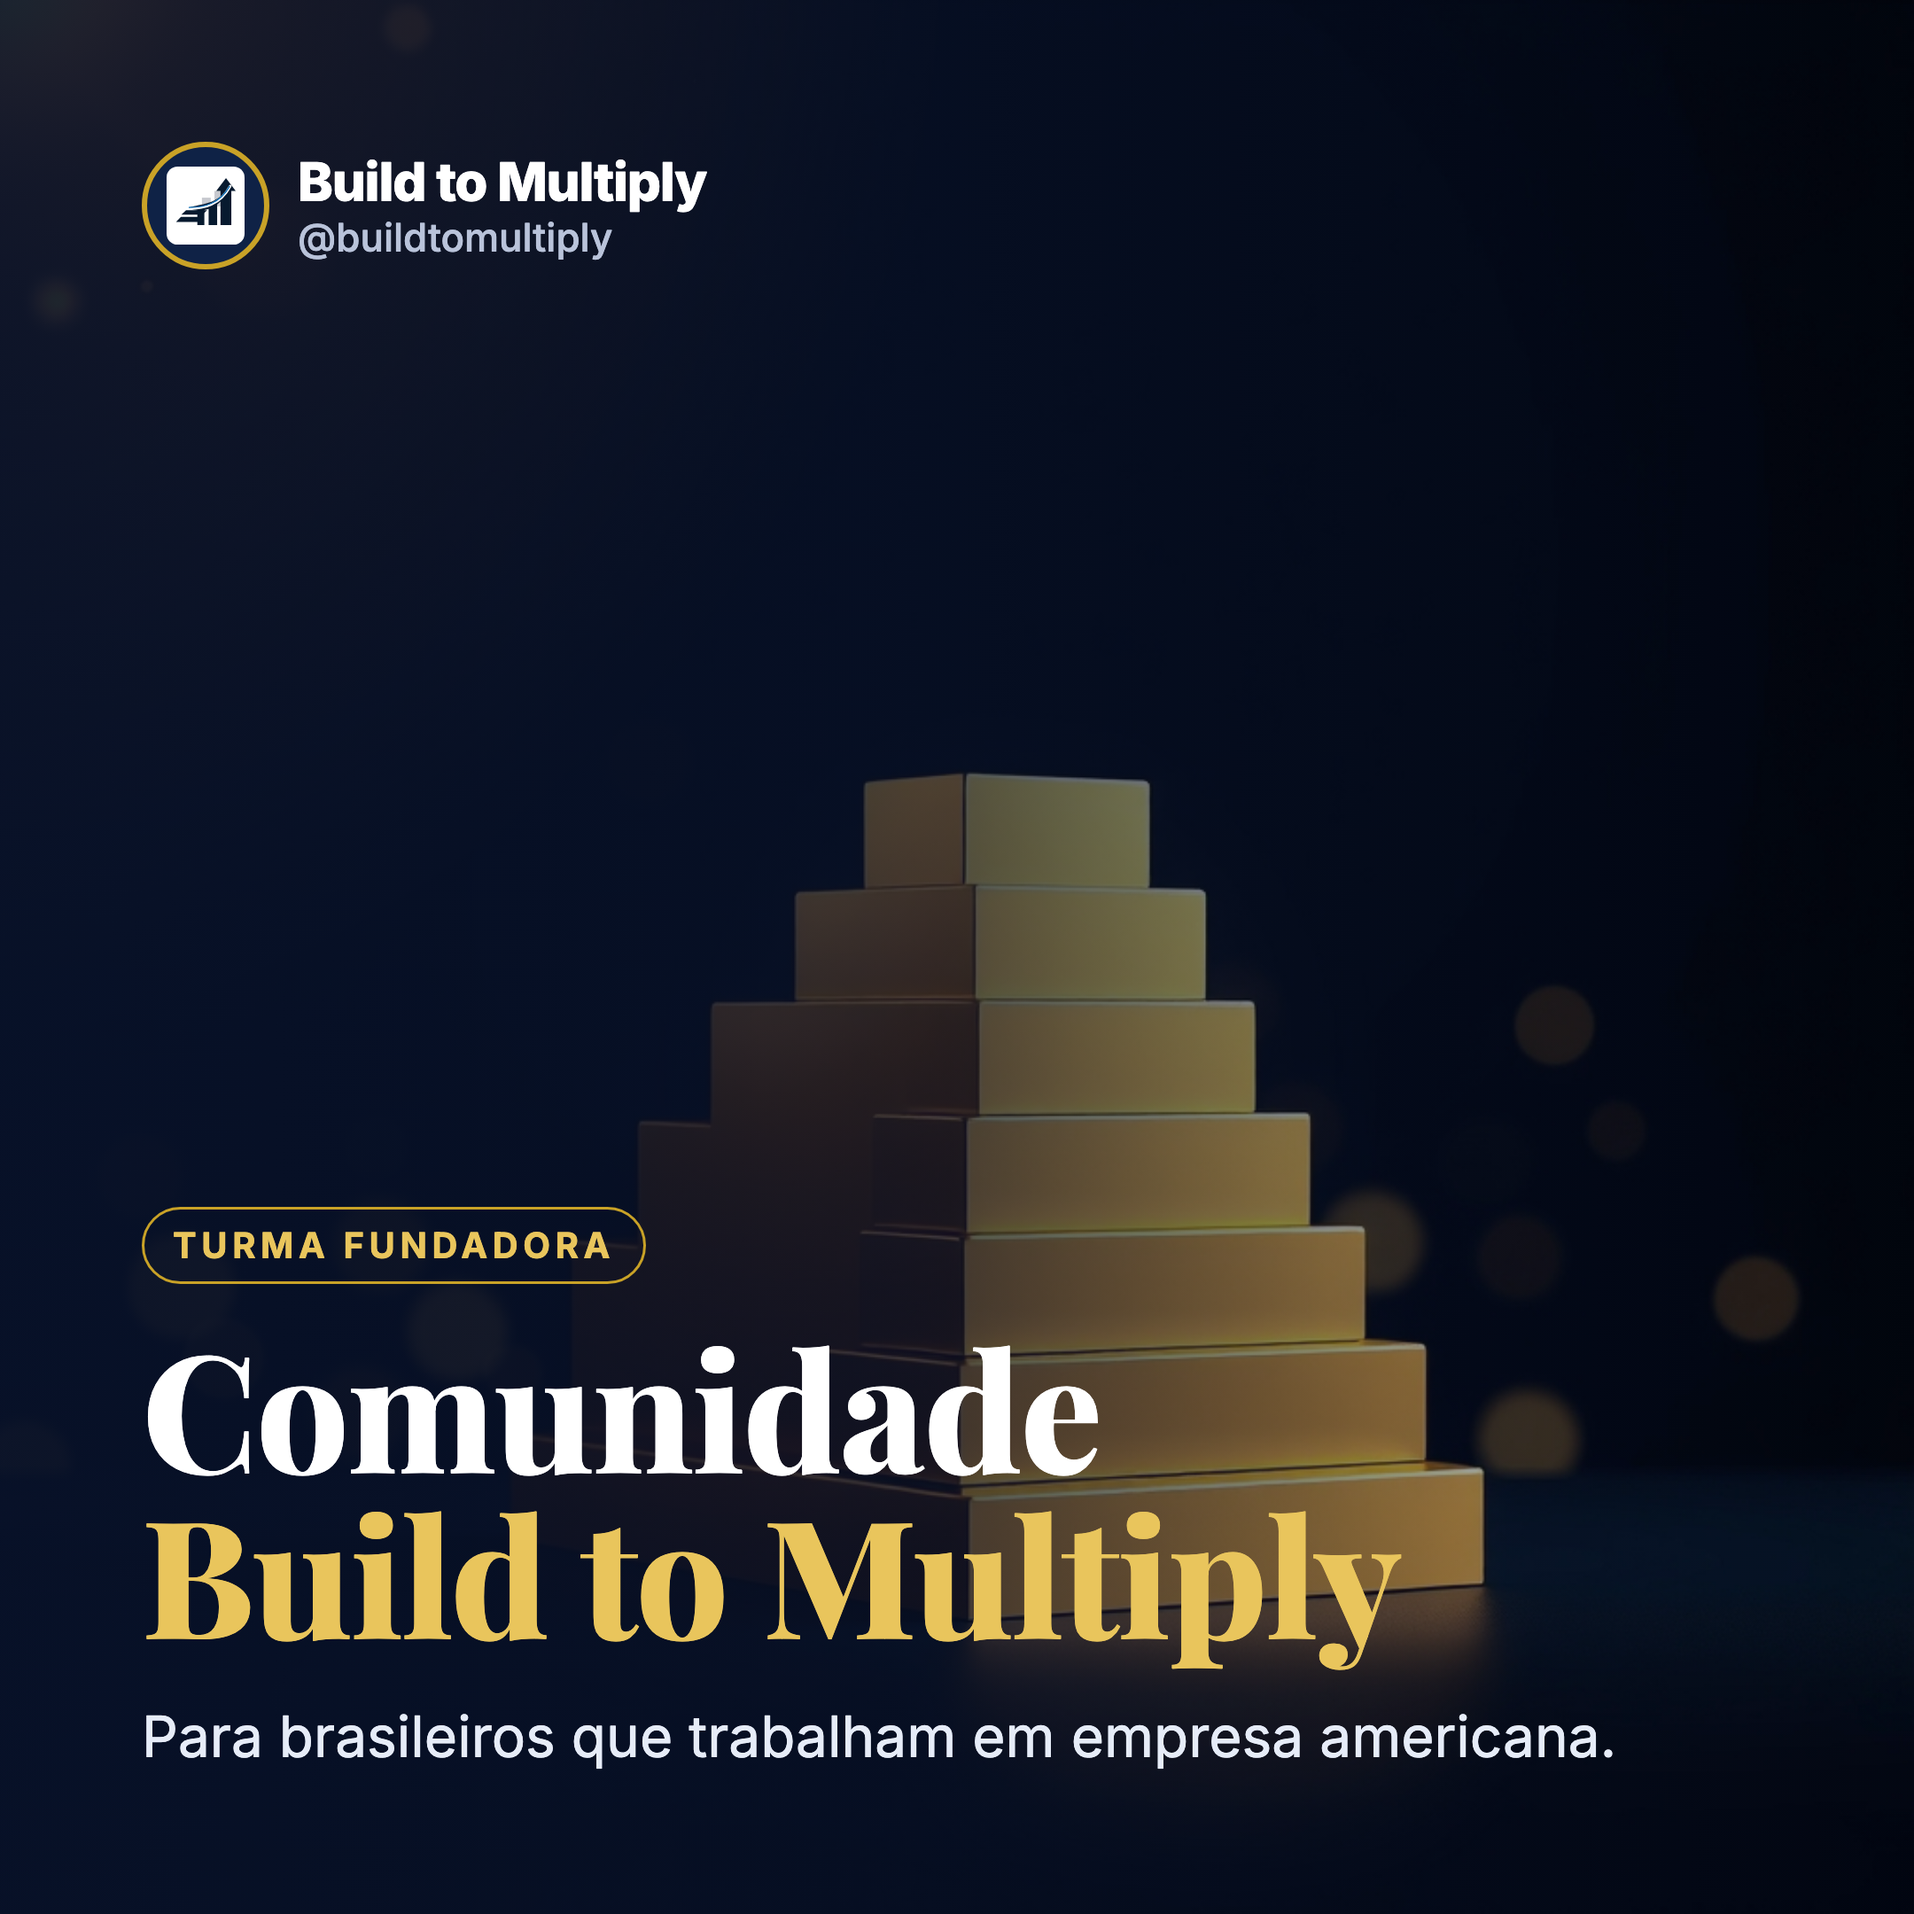
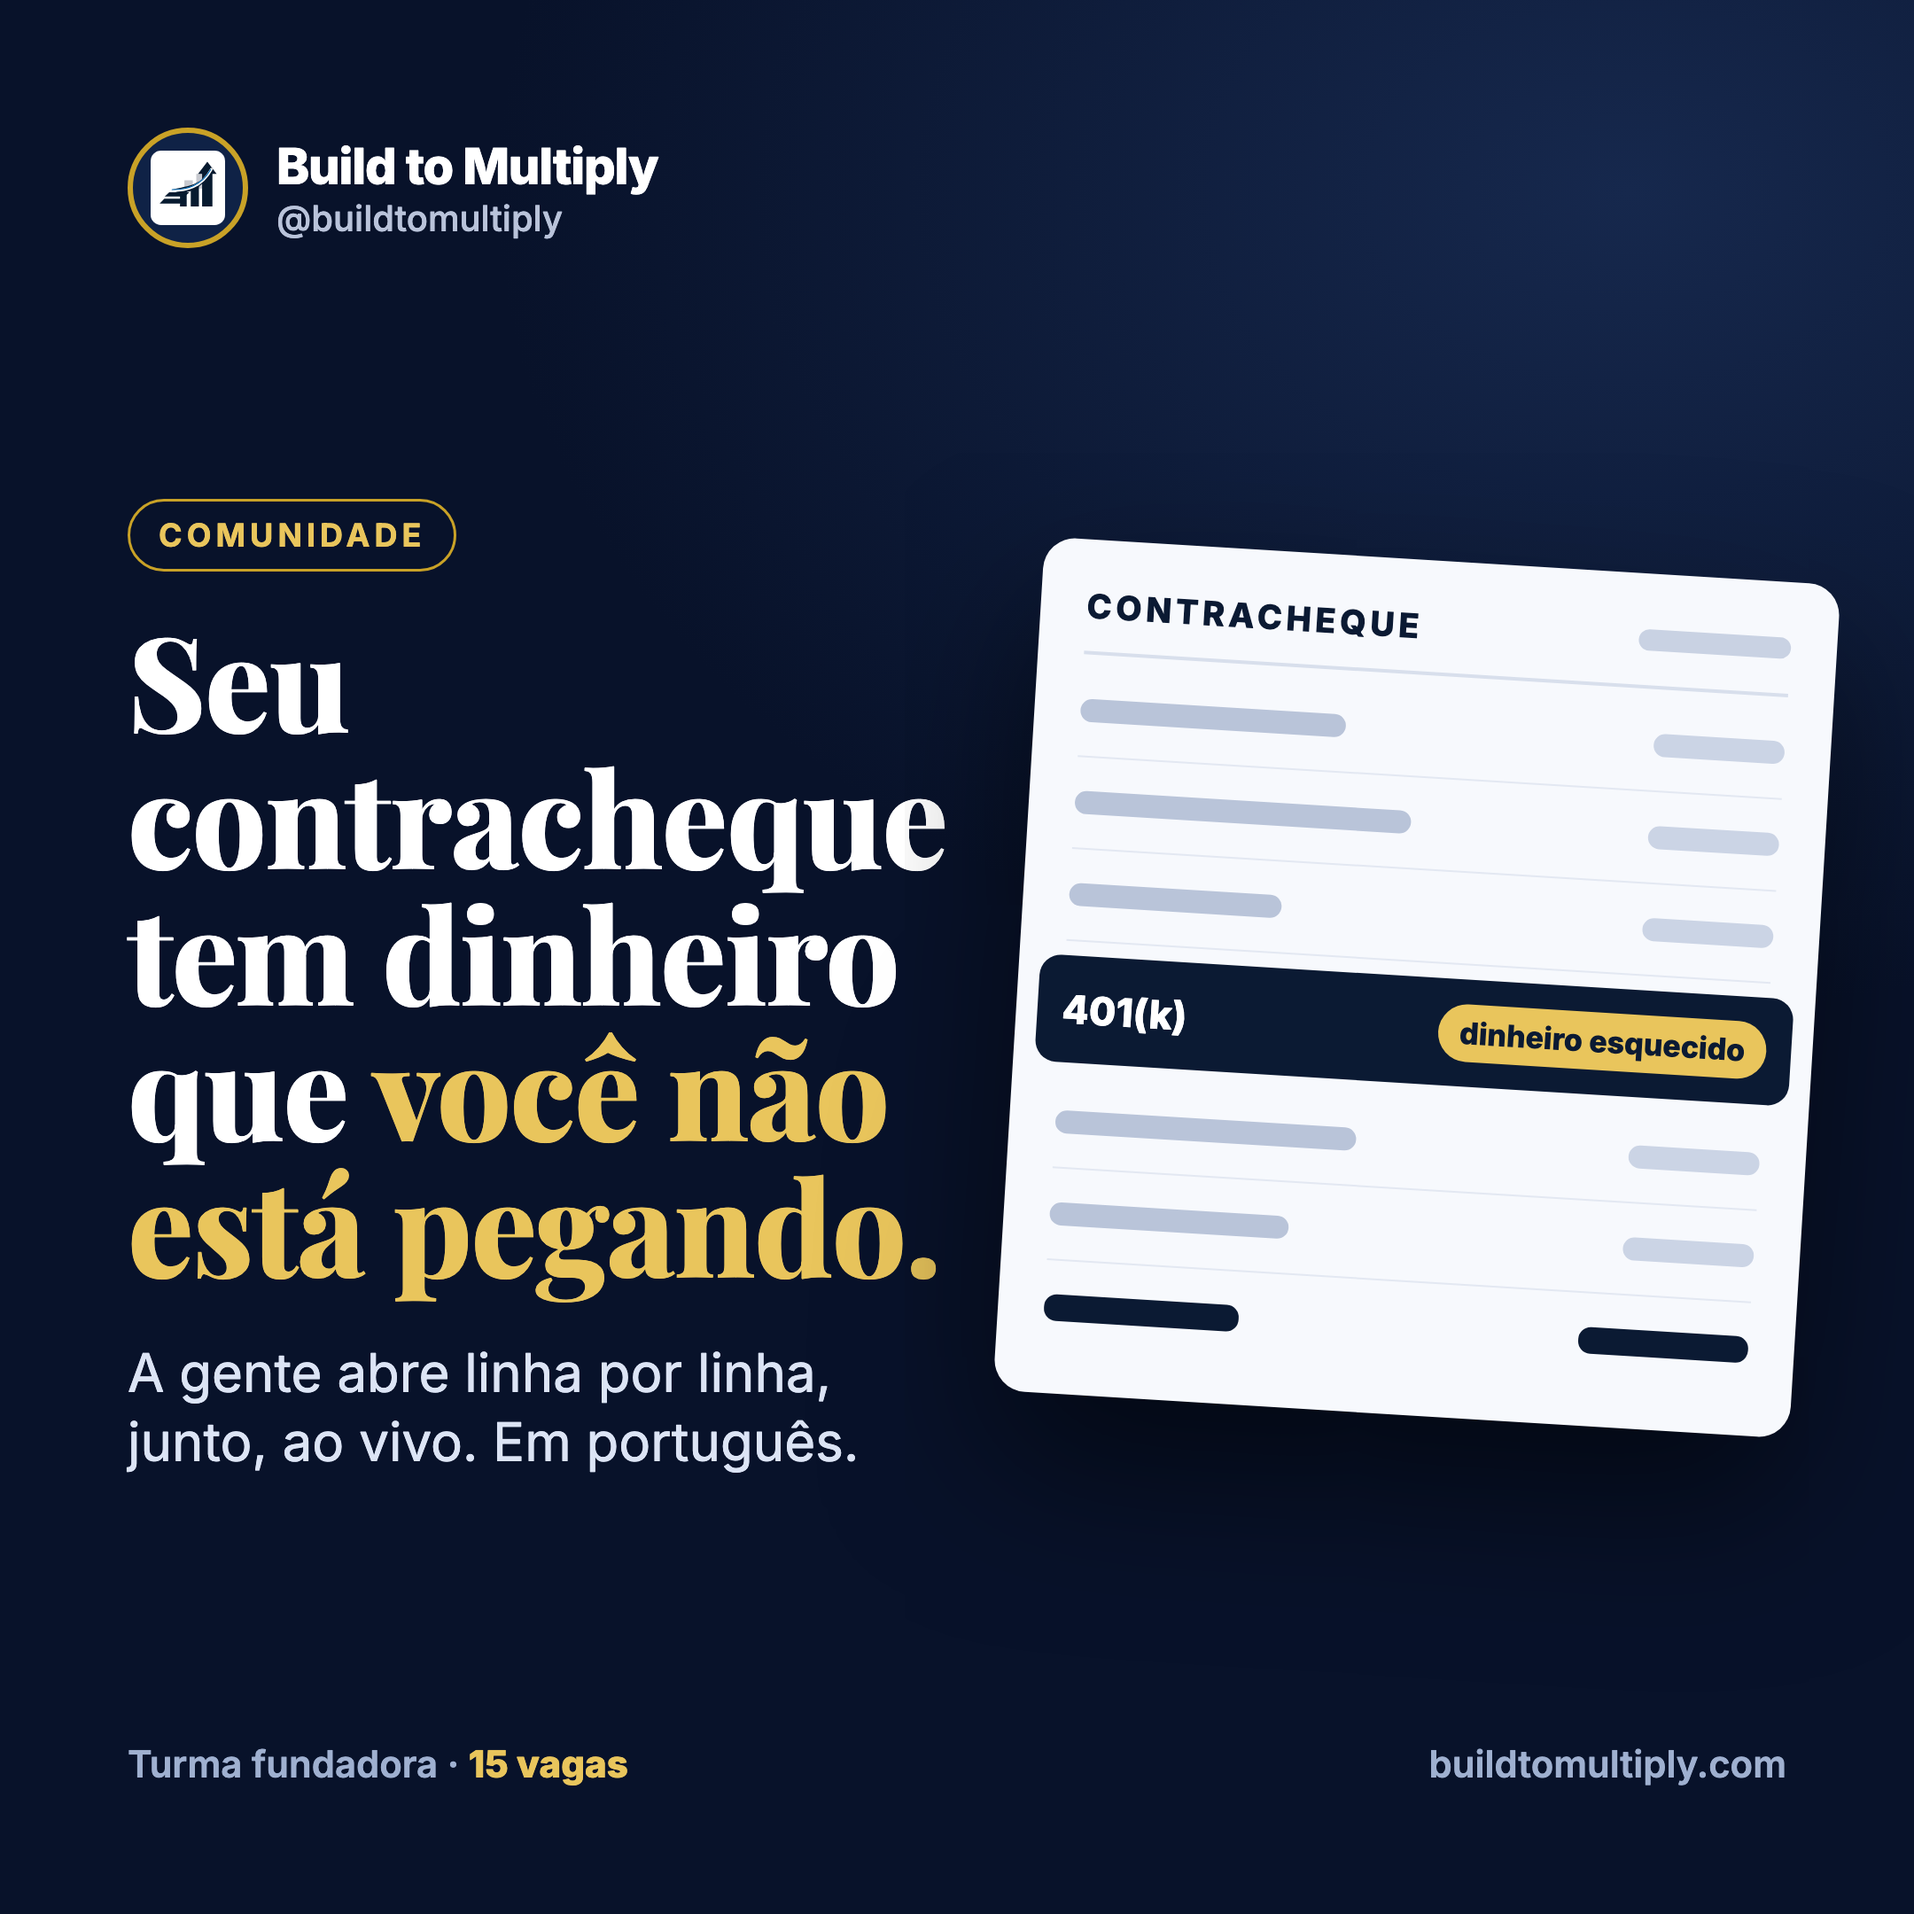
Atualiza site

diff --git a/articles/02-compare-job-offers-total-compensation.html b/articles/02-compare-job-offers-total-compensation.html
@@ -15,7 +15,7 @@
 <link rel="preconnect" href="https://fonts.googleapis.com">
 <link rel="preconnect" href="https://fonts.gstatic.com" crossorigin>
 <link href="https://fonts.googleapis.com/css2?family=Inter:wght@400;500;600;700;800&display=swap" rel="stylesheet">
-<link rel="stylesheet" href="../site.css?v=1789946865">
+<link rel="stylesheet" href="../site.css?v=1789947798">
 </head>
 <body>
 <a class="skip-link" href="#main">Skip to content</a>
@@ -153,5 +153,5 @@
   </div>
   <div class="footer-bottom"><p>&copy; 2026 Build to Multiply.</p><p>Educational content. Build to Multiply does not provide personalized financial, investment, tax or legal advice. The calculators show estimates based on what you type and are not predictions or guarantees.</p></div>
 </div></footer>
-<script src="../site.js?v=1789946865"></script>
+<script src="../site.js?v=1789947798"></script>
 </body></html>

diff --git a/articles/03-negotiate-base-or-bonus.html b/articles/03-negotiate-base-or-bonus.html
@@ -15,7 +15,7 @@
 <link rel="preconnect" href="https://fonts.googleapis.com">
 <link rel="preconnect" href="https://fonts.gstatic.com" crossorigin>
 <link href="https://fonts.googleapis.com/css2?family=Inter:wght@400;500;600;700;800&display=swap" rel="stylesheet">
-<link rel="stylesheet" href="../site.css?v=1789946865">
+<link rel="stylesheet" href="../site.css?v=1789947798">
 </head>
 <body>
 <a class="skip-link" href="#main">Skip to content</a>
@@ -139,5 +139,5 @@
   </div>
   <div class="footer-bottom"><p>&copy; 2026 Build to Multiply.</p><p>Educational content. Build to Multiply does not provide personalized financial, investment, tax or legal advice. The calculators show estimates based on what you type and are not predictions or guarantees.</p></div>
 </div></footer>
-<script src="../site.js?v=1789946865"></script>
+<script src="../site.js?v=1789947798"></script>
 </body></html>

diff --git a/articles/04-total-rewards-statement.html b/articles/04-total-rewards-statement.html
@@ -15,7 +15,7 @@
 <link rel="preconnect" href="https://fonts.googleapis.com">
 <link rel="preconnect" href="https://fonts.gstatic.com" crossorigin>
 <link href="https://fonts.googleapis.com/css2?family=Inter:wght@400;500;600;700;800&display=swap" rel="stylesheet">
-<link rel="stylesheet" href="../site.css?v=1789946865">
+<link rel="stylesheet" href="../site.css?v=1789947798">
 </head>
 <body>
 <a class="skip-link" href="#main">Skip to content</a>
@@ -161,5 +161,5 @@
   </div>
   <div class="footer-bottom"><p>&copy; 2026 Build to Multiply.</p><p>Educational content. Build to Multiply does not provide personalized financial, investment, tax or legal advice. The calculators show estimates based on what you type and are not predictions or guarantees.</p></div>
 </div></footer>
-<script src="../site.js?v=1789946865"></script>
+<script src="../site.js?v=1789947798"></script>
 </body></html>

diff --git a/articles/05-savings-rate-explained.html b/articles/05-savings-rate-explained.html
@@ -15,7 +15,7 @@
 <link rel="preconnect" href="https://fonts.googleapis.com">
 <link rel="preconnect" href="https://fonts.gstatic.com" crossorigin>
 <link href="https://fonts.googleapis.com/css2?family=Inter:wght@400;500;600;700;800&display=swap" rel="stylesheet">
-<link rel="stylesheet" href="../site.css?v=1789946865">
+<link rel="stylesheet" href="../site.css?v=1789947798">
 </head>
 <body>
 <a class="skip-link" href="#main">Skip to content</a>
@@ -107,5 +107,5 @@
   </div>
   <div class="footer-bottom"><p>&copy; 2026 Build to Multiply.</p><p>Educational content. Build to Multiply does not provide personalized financial, investment, tax or legal advice. The calculators show estimates based on what you type and are not predictions or guarantees.</p></div>
 </div></footer>
-<script src="../site.js?v=1789946865"></script>
+<script src="../site.js?v=1789947798"></script>
 </body></html>

diff --git a/articles/01-how-companies-decide-your-salary.html b/articles/01-how-companies-decide-your-salary.html
@@ -15,7 +15,7 @@
 <link rel="preconnect" href="https://fonts.googleapis.com">
 <link rel="preconnect" href="https://fonts.gstatic.com" crossorigin>
 <link href="https://fonts.googleapis.com/css2?family=Inter:wght@400;500;600;700;800&display=swap" rel="stylesheet">
-<link rel="stylesheet" href="../site.css?v=1789946865">
+<link rel="stylesheet" href="../site.css?v=1789947798">
 </head>
 <body>
 <a class="skip-link" href="#main">Skip to content</a>
@@ -94,5 +94,5 @@
   </div>
   <div class="footer-bottom"><p>&copy; 2026 Build to Multiply.</p><p>Educational content. Build to Multiply does not provide personalized financial, investment, tax or legal advice. The calculators show estimates based on what you type and are not predictions or guarantees.</p></div>
 </div></footer>
-<script src="../site.js?v=1789946865"></script>
+<script src="../site.js?v=1789947798"></script>
 </body></html>

diff --git a/articles/09-equity-compensation-101.html b/articles/09-equity-compensation-101.html
@@ -15,7 +15,7 @@
 <link rel="preconnect" href="https://fonts.googleapis.com">
 <link rel="preconnect" href="https://fonts.gstatic.com" crossorigin>
 <link href="https://fonts.googleapis.com/css2?family=Inter:wght@400;500;600;700;800&display=swap" rel="stylesheet">
-<link rel="stylesheet" href="../site.css?v=1789946865">
+<link rel="stylesheet" href="../site.css?v=1789947798">
 </head>
 <body>
 <a class="skip-link" href="#main">Skip to content</a>
@@ -91,5 +91,5 @@
   </div>
   <div class="footer-bottom"><p>&copy; 2026 Build to Multiply.</p><p>Educational content. Build to Multiply does not provide personalized financial, investment, tax or legal advice. The calculators show estimates based on what you type and are not predictions or guarantees.</p></div>
 </div></footer>
-<script src="../site.js?v=1789946865"></script>
+<script src="../site.js?v=1789947798"></script>
 </body></html>

diff --git a/community.html b/community.html
@@ -15,7 +15,7 @@
 <link rel="preconnect" href="https://fonts.googleapis.com">
 <link rel="preconnect" href="https://fonts.gstatic.com" crossorigin>
 <link href="https://fonts.googleapis.com/css2?family=Inter:wght@400;500;600;700;800&display=swap" rel="stylesheet">
-<link rel="stylesheet" href="site.css?v=1789946865">
+<link rel="stylesheet" href="site.css?v=1789947798">
 </head>
 <body>
 <a class="skip-link" href="#main">Skip to content</a>
@@ -108,5 +108,5 @@
   </div>
   <div class="footer-bottom"><p>&copy; 2026 Build to Multiply.</p><p>Educational content. Build to Multiply does not provide personalized financial, investment, tax or legal advice. The calculators show estimates based on what you type and are not predictions or guarantees.</p></div>
 </div></footer>
-<script src="site.js?v=1789946865"></script>
+<script src="site.js?v=1789947798"></script>
 </body></html>

diff --git a/xray.html b/xray.html
@@ -15,7 +15,7 @@
 <link rel="preconnect" href="https://fonts.googleapis.com">
 <link rel="preconnect" href="https://fonts.gstatic.com" crossorigin>
 <link href="https://fonts.googleapis.com/css2?family=Inter:wght@400;500;600;700;800&display=swap" rel="stylesheet">
-<link rel="stylesheet" href="site.css?v=1789946865">
+<link rel="stylesheet" href="site.css?v=1789947798">
 </head>
 <body>
 <a class="skip-link" href="#main">Skip to content</a>
@@ -134,5 +134,5 @@
   </div>
   <div class="footer-bottom"><p>&copy; 2026 Build to Multiply.</p><p>Educational content. Build to Multiply does not provide personalized financial, investment, tax or legal advice. The calculators show estimates based on what you type and are not predictions or guarantees.</p></div>
 </div></footer>
-<script src="site.js?v=1789946865"></script>
+<script src="site.js?v=1789947798"></script>
 </body></html>

diff --git a/about.html b/about.html
@@ -15,7 +15,7 @@
 <link rel="preconnect" href="https://fonts.googleapis.com">
 <link rel="preconnect" href="https://fonts.gstatic.com" crossorigin>
 <link href="https://fonts.googleapis.com/css2?family=Inter:wght@400;500;600;700;800&display=swap" rel="stylesheet">
-<link rel="stylesheet" href="site.css?v=1789946865">
+<link rel="stylesheet" href="site.css?v=1789947798">
 </head>
 <body>
 <a class="skip-link" href="#main">Skip to content</a>
@@ -66,5 +66,5 @@
   </div>
   <div class="footer-bottom"><p>&copy; 2026 Build to Multiply.</p><p>Educational content. Build to Multiply does not provide personalized financial, investment, tax or legal advice. The calculators show estimates based on what you type and are not predictions or guarantees.</p></div>
 </div></footer>
-<script src="site.js?v=1789946865"></script>
+<script src="site.js?v=1789947798"></script>
 </body></html>

diff --git a/articles.html b/articles.html
@@ -15,7 +15,7 @@
 <link rel="preconnect" href="https://fonts.googleapis.com">
 <link rel="preconnect" href="https://fonts.gstatic.com" crossorigin>
 <link href="https://fonts.googleapis.com/css2?family=Inter:wght@400;500;600;700;800&display=swap" rel="stylesheet">
-<link rel="stylesheet" href="site.css?v=1789946865">
+<link rel="stylesheet" href="site.css?v=1789947798">
 </head>
 <body>
 <a class="skip-link" href="#main">Skip to content</a>
@@ -51,5 +51,5 @@
   </div>
   <div class="footer-bottom"><p>&copy; 2026 Build to Multiply.</p><p>Educational content. Build to Multiply does not provide personalized financial, investment, tax or legal advice. The calculators show estimates based on what you type and are not predictions or guarantees.</p></div>
 </div></footer>
-<script src="site.js?v=1789946865"></script>
+<script src="site.js?v=1789947798"></script>
 </body></html>

diff --git a/index.html b/index.html
@@ -15,7 +15,7 @@
 <link rel="preconnect" href="https://fonts.googleapis.com">
 <link rel="preconnect" href="https://fonts.gstatic.com" crossorigin>
 <link href="https://fonts.googleapis.com/css2?family=Inter:wght@400;500;600;700;800&display=swap" rel="stylesheet">
-<link rel="stylesheet" href="site.css?v=1789946865">
+<link rel="stylesheet" href="site.css?v=1789947798">
 </head>
 <body>
 <a class="skip-link" href="#main">Skip to content</a>
@@ -67,5 +67,5 @@
   </div>
   <div class="footer-bottom"><p>&copy; 2026 Build to Multiply.</p><p>Educational content. Build to Multiply does not provide personalized financial, investment, tax or legal advice. The calculators show estimates based on what you type and are not predictions or guarantees.</p></div>
 </div></footer>
-<script src="site.js?v=1789946865"></script>
+<script src="site.js?v=1789947798"></script>
 </body></html>

diff --git a/library.html b/library.html
@@ -15,7 +15,7 @@
 <link rel="preconnect" href="https://fonts.googleapis.com">
 <link rel="preconnect" href="https://fonts.gstatic.com" crossorigin>
 <link href="https://fonts.googleapis.com/css2?family=Inter:wght@400;500;600;700;800&display=swap" rel="stylesheet">
-<link rel="stylesheet" href="site.css?v=1789946865">
+<link rel="stylesheet" href="site.css?v=1789947798">
 </head>
 <body>
 <a class="skip-link" href="#main">Skip to content</a>
@@ -52,5 +52,5 @@
   </div>
   <div class="footer-bottom"><p>&copy; 2026 Build to Multiply.</p><p>Educational content. Build to Multiply does not provide personalized financial, investment, tax or legal advice. The calculators show estimates based on what you type and are not predictions or guarantees.</p></div>
 </div></footer>
-<script src="site.js?v=1789946865"></script>
+<script src="site.js?v=1789947798"></script>
 </body></html>
